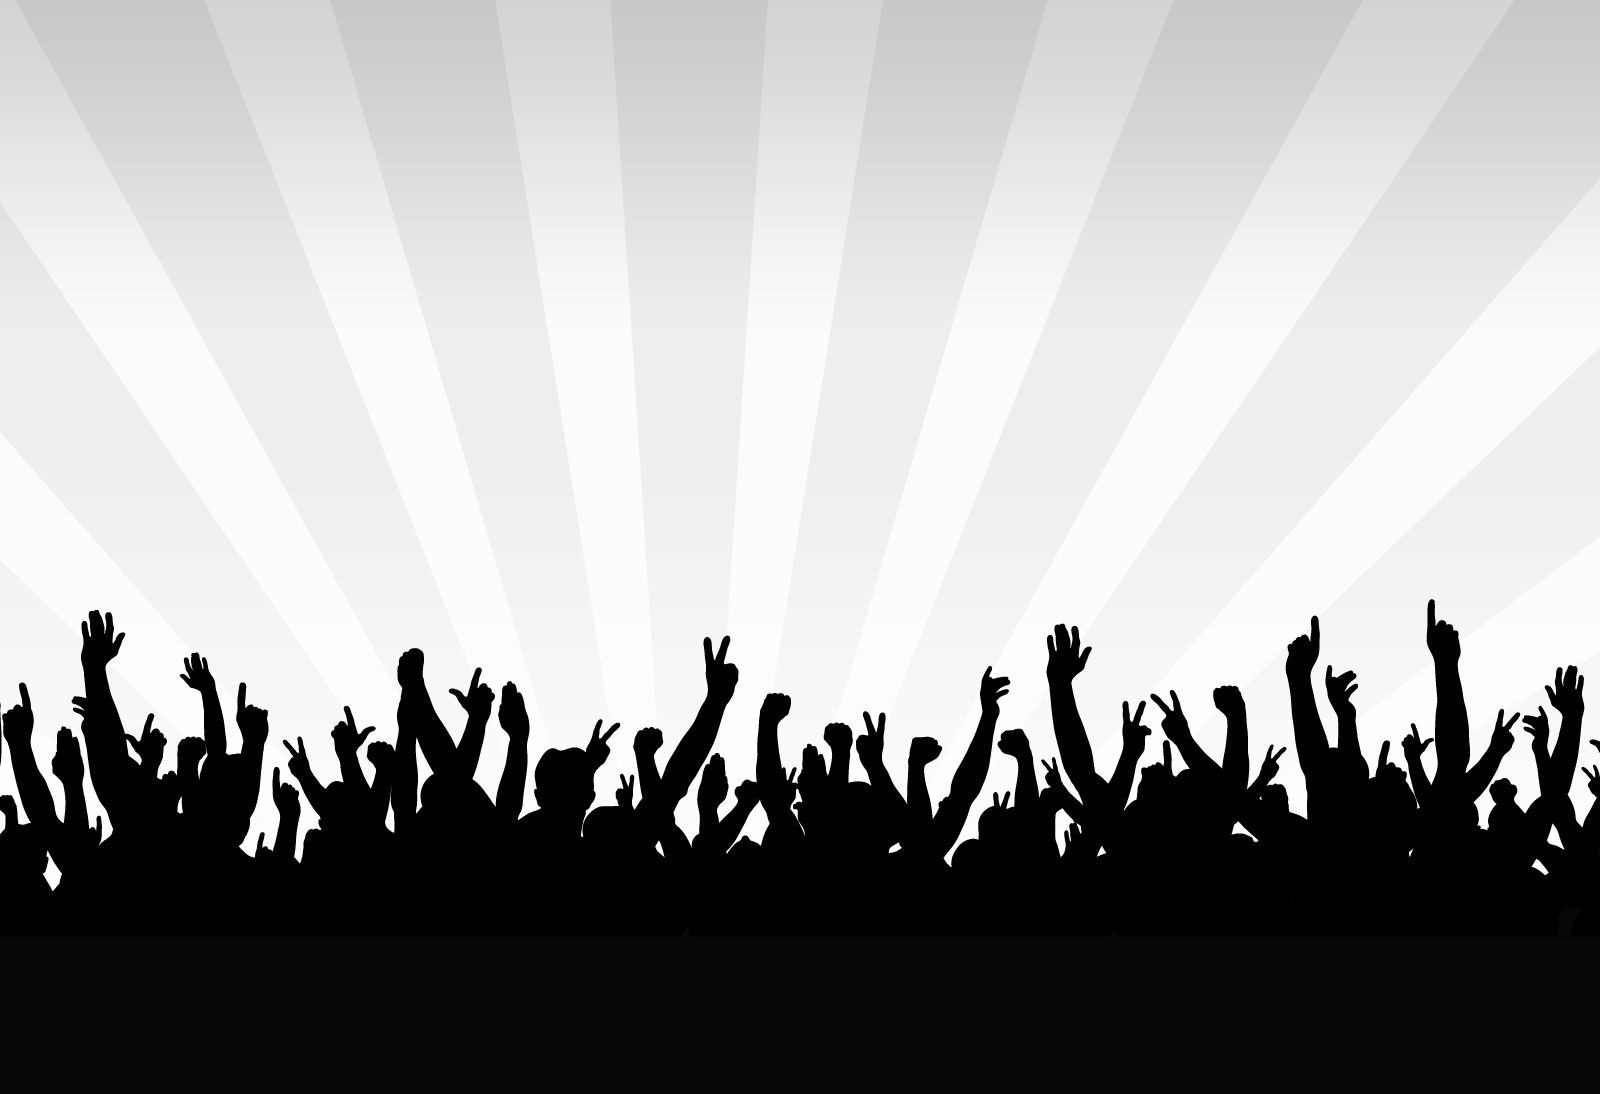
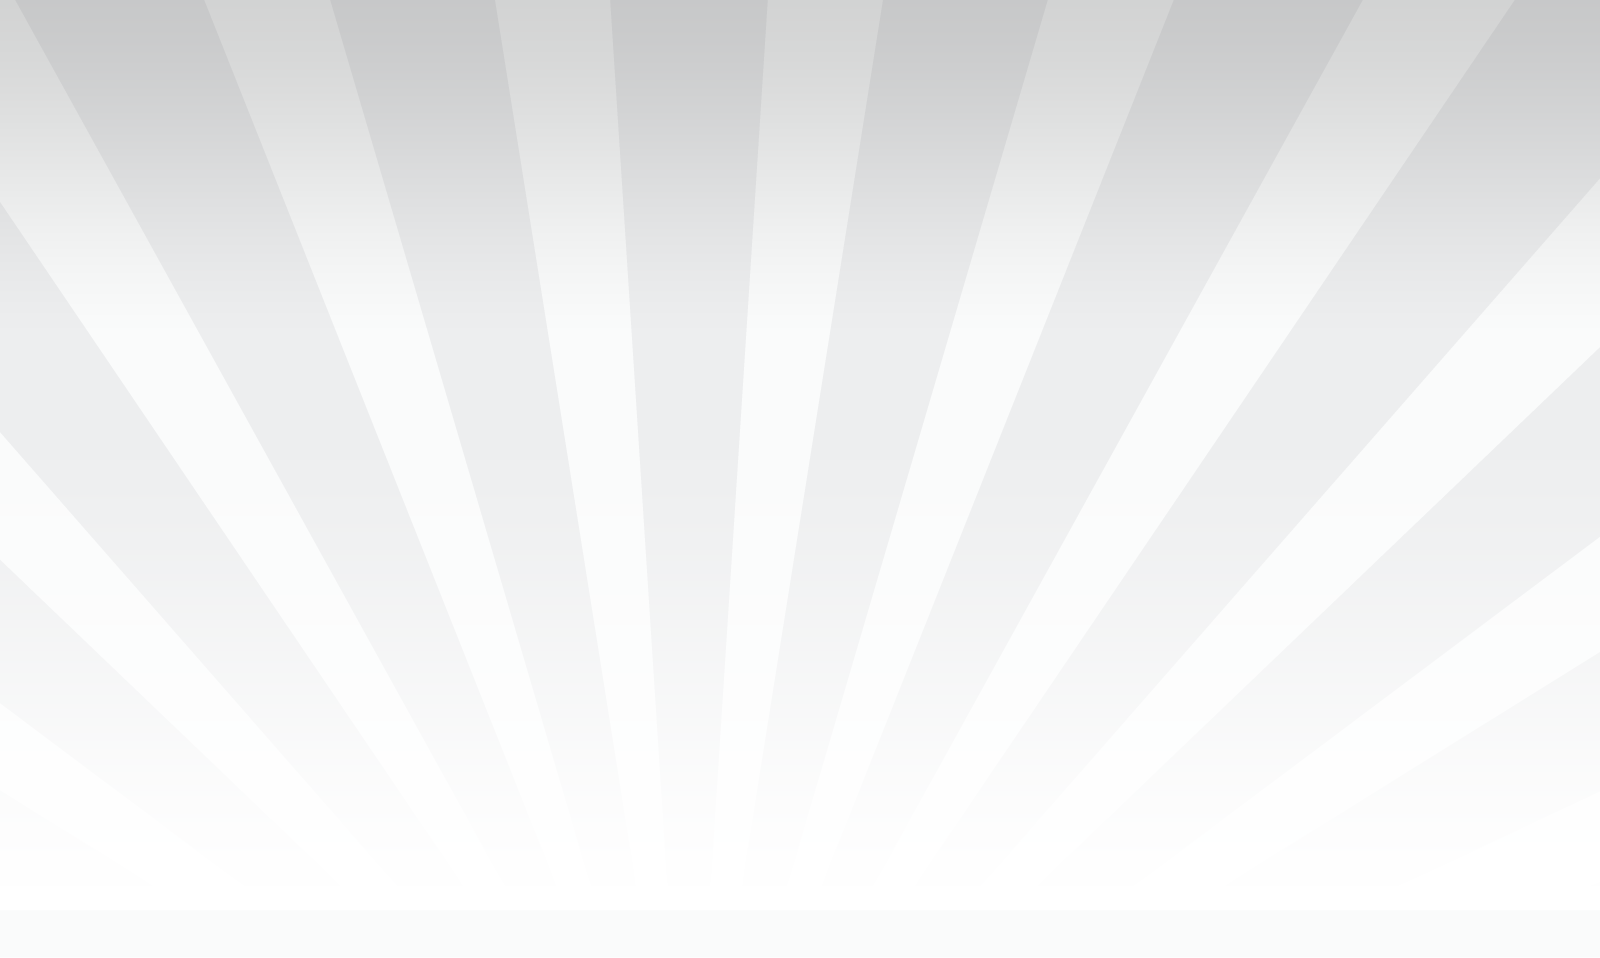
Crowd image no repeats and is fixed to the bottom of the viewport.

diff --git a/src/sass/main.scss b/src/sass/main.scss
@@ -7,6 +7,7 @@ html {
     background: url("#{$images}/audience-background.png") no-repeat center center fixed;
     background-size: cover;
     font-size: 14px;
+    height: 100%;
 }
 
 *, *:before, *:after {
@@ -18,11 +19,16 @@ body {
     font-family: DinCondensedBold, sans-serif;
     position: relative;
     font-size: 1em;
+    width: 100%;
+    min-height: 100vh;
+    //display: flex;
+    //flex-direction: column;
 }
 
 .outer-container {
     width: 100%;
-    height: 100vh;
+    min-height: calc(100vh - #{$header-height} - #{$footer-height});
+    height: calc(100vh - #{$header-height} - #{$footer-height});
 
     @media #{$large} {
         position: relative;
@@ -98,18 +104,17 @@ header, .inner-box {
 
 .main-content {
     font-size: 1.5em;
-    padding: 0 15px;
     @media #{$large} {
         margin-top: 45px;
     }
 }
 
 .ticket-section, .form-section {
+    padding: 0 15px;
     position: relative;
     width: 100%;
-    height: calc(100% - #{$header-height});
+    height: 100%;
     @media #{$large} {
-        height: calc(568px - #{$header-height});
         position: relative;
         width: 48%;
     }
@@ -124,7 +129,7 @@ header, .inner-box {
     margin: 0 auto;
     height: 197px;
     background: url("#{$images}/ticket-to-rock-banner.png") no-repeat center center;
-    width: 90%;
+    width: 85%;
     background-size: contain;
 
     @media #{$large} {
@@ -158,5 +163,21 @@ header, .inner-box {
     &.cash {
         background-image: url("#{$images}/icons/airplane-icon.png");
     }
+}
 
+footer {
+    height: $footer-height;
+    width: 100%;
+    background-color: #000;
+    position: fixed;
+    bottom: 0;
+}
+
+.crowd {
+    height: 200px;
+    width: 100%;
+    background: url("#{$images}/crowd.png") repeat no-repeat center bottom;
+    background-size: contain;
+    position: fixed;
+    bottom: calc(#{$footer-height} - 2px);
 }

diff --git a/src/sass/variables.scss b/src/sass/variables.scss
@@ -12,34 +12,10 @@ $gnc-light-grey: #E6E5E6;
 //Widths and Heights
 $inner-box-width: 85.463%;
 $header-height: 68px;
-// Responsive Media Queries
-//
-// This application uses a "mobile-first" approach. In other words, NO media query is used when targeting the smallest viewport.
-// For example:
-//
-// No media query (i.e. smallest viewports)
-// .some-class {
-//    ...all widths (e.g. mobile portrait)
-//
-//    @media ${$small} {
-//        ...small widths and wider
-//    }
-//
-//    @media ${$medium} {
-//        ...medium widths and wider
-//    }
-//
-//    @media ${$large} {
-//        ...large widths and wider
-//    }
-//
-//    @media ${$desktop} {
-//        ...desktop widths and wider
-//    }
-// }
+$footer-height: 5%;
 
-// SEE Notes above! When possible, use these variables instead creating new, custom media queries
-// For viewports below 480px (e.g. mobile devices in portrait mode), do NOT use a media query.
+// Media Queries
+// This application uses a "mobile-first" approach. In other words, NO media query is used when targeting the smallest viewport.
 $small: "only screen and (min-width: 480px)";    // Viewports 480px  (e.g. Mobile devices in landscape) or Wider
 $medium: "only screen and (min-width: 768px)";   // Viewports 768px  (e.g. iPad Portrait) or Wider
 $large: "only screen and (min-width: 1024px)";   // Viewports 1024px (e.g. iPad Landscape) or Wider

diff --git a/index.html b/index.html
@@ -46,9 +46,11 @@
         <section class="form-section">
 
         </section>
-
     </div>
 </div>
+<div class="crowd"></div>
+<footer>
+</footer>
 <script src="https://code.jquery.com/jquery-3.2.1.min.js"></script>
 <script>window.jQuery || document.write('<script src="scripts/libraries/jquery-3.2.1.min.js"><\/script>')</script> <!--Offline Fallback-->
 <script type="text/javascript" src="src/scripts/main.js"></script>
